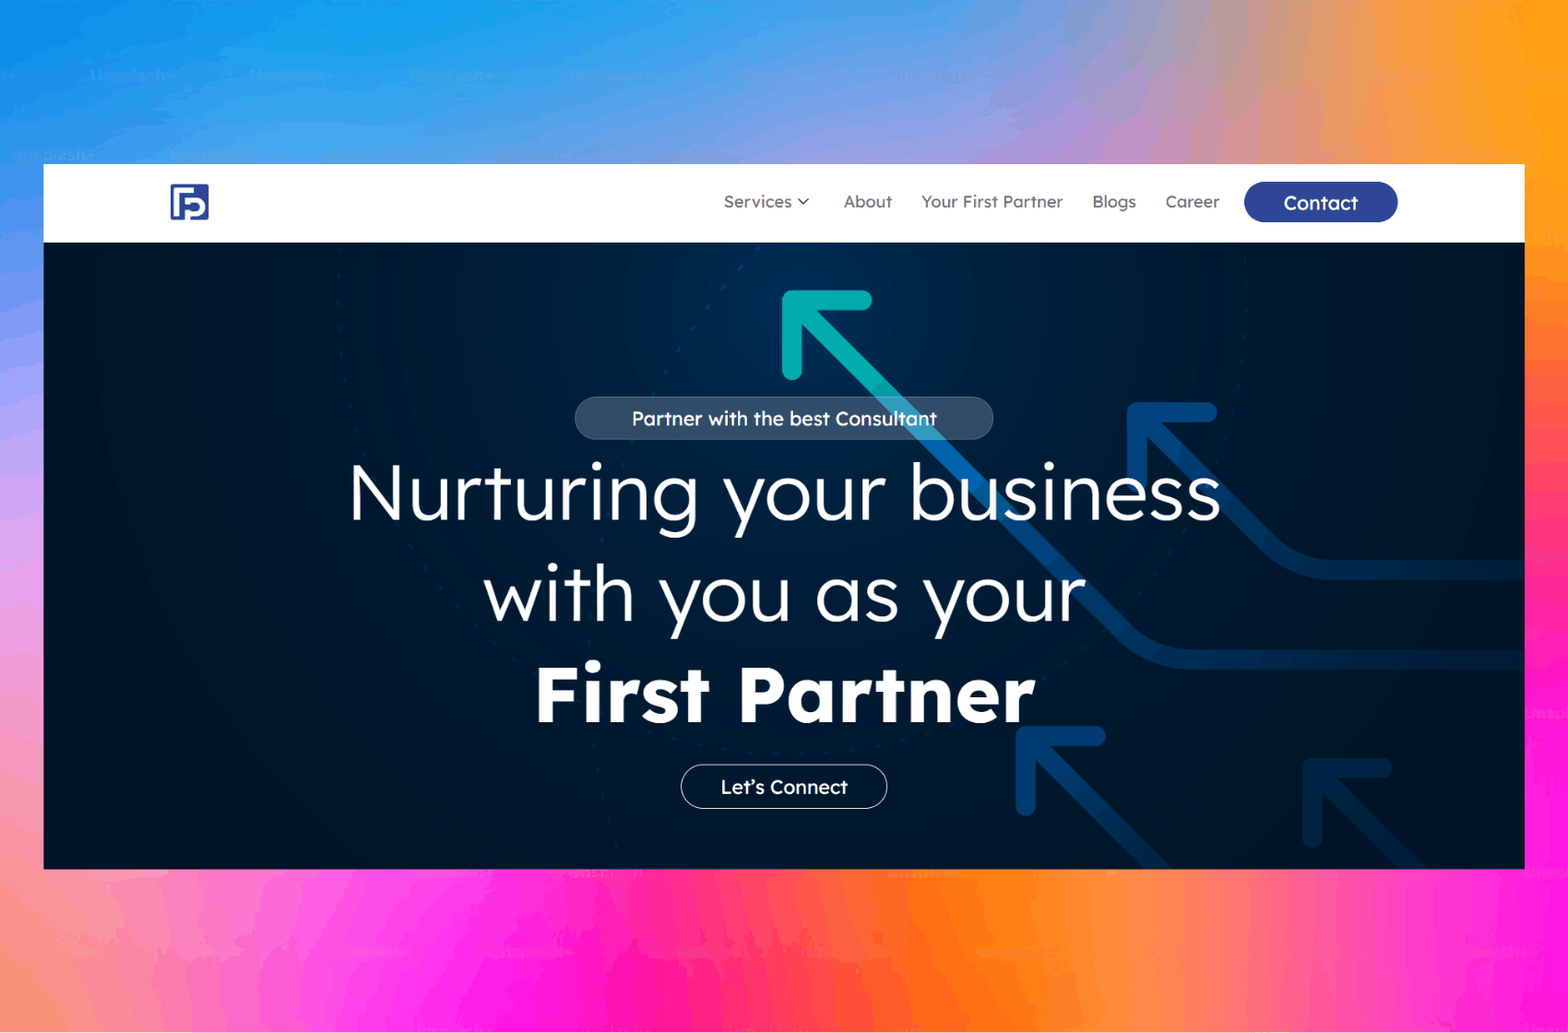
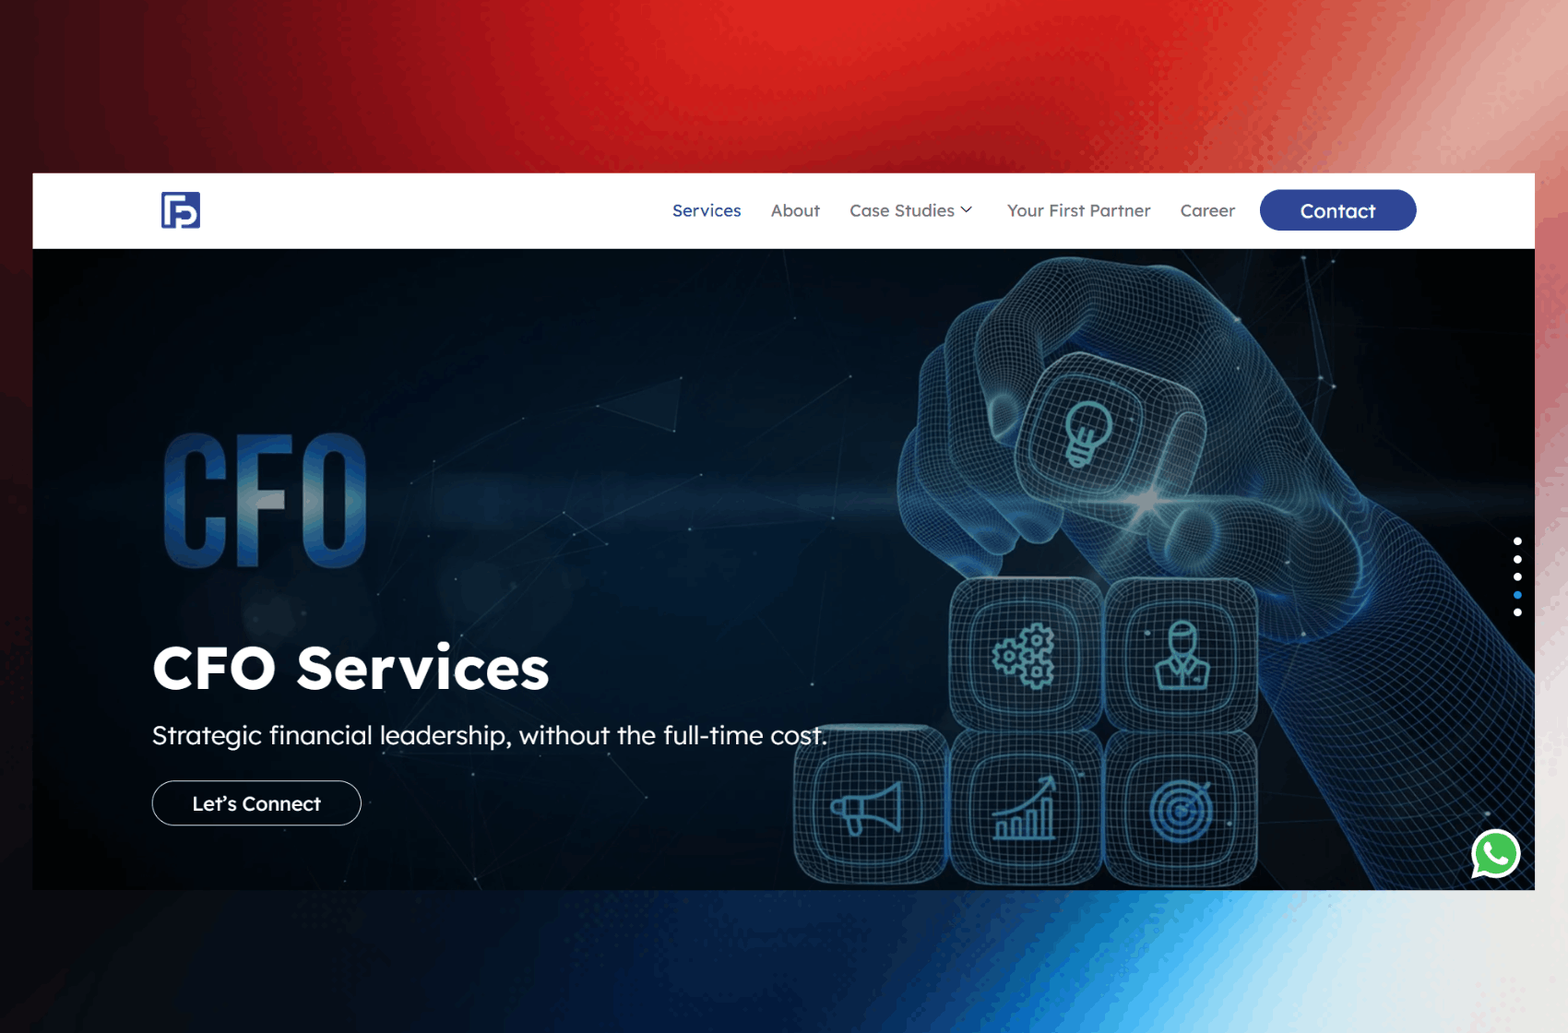
added wp projects

diff --git a/src/components/WordPressProjects.tsx b/src/components/WordPressProjects.tsx
@@ -12,26 +12,32 @@ import housefull from '../assets/images/housefull.png';
 import accelence from '../assets/images/accelence.png';
 import urbannext from '../assets/images/urbannext.png';
 import stories from '../assets/images/stories.png';
-// import grabaggs from '../assets/images/grabaggs.png';
+import pamco from '../assets/images/pamco.png';
 import elite from '../assets/images/elite.png';
 import cutabove from '../assets/images/cutabove.png';
 import saaksham from '../assets/images/saaksham.png';
 import greenly from '../assets/images/greenly.png';
 import trumbul from '../assets/images/trumbul.png';
-import tinkesh from '../assets/images/tinkesh.png';
+import glasplex from '../assets/images/tinkesh.png';
 import genzephyr from '../assets/images/genzephyr.png';
-import ebc from '../assets/images/ebc.png';
+import turnkey from '../assets/images/turnkey.png';
+import supplementfarm from '../assets/images/supplementfarm.png';
 import soil from '../assets/images/soil.png';
 import digi from '../assets/images/digi.png';
 import cicl from '../assets/images/cicl.png';
 import decrayze from '../assets/images/decrayze.png';
+import luxuria from '../assets/images/luxuria.png';
 import vavo from '../assets/images/vavo.png';
 import travelinfoline from '../assets/images/5-min.png';
+import amrit from '../assets/images/amrit.png';
+import sweetroars from '../assets/images/sweetroars.png';
 import stelliam from '../assets/images/stelliam.png';
 import podcrafter from '../assets/images/podcrafter.png';
 import marudeva from '../assets/images/marudeva.png';
 import fp from '../assets/images/fp.png';
 import cf from '../assets/images/cf.png';
+import parimisha from '../assets/images/parimisha.png';
+import monarch from '../assets/images/monarch.png';
 import melavi from '../assets/images/melavi.png';
 import logsday from '../assets/images/logsday.png';
 import ciclevent from '../assets/images/ciclevent.png';
@@ -39,6 +45,9 @@ import arken from '../assets/images/arken.png';
 import cheerup from '../assets/images/cheerup.png';
 import ora from '../assets/images/ora.png';
 import citycool from '../assets/images/citycool.png';
+import ultucup from '../assets/images/ultucup.png';
+import remodelingusa from '../assets/images/remodelingusa.png';
+import goglobe from '../assets/images/goglobe.png';
 import '../assets/styles/Project.scss';
 
 export default function WordPressProjects() {
@@ -53,19 +62,19 @@ export default function WordPressProjects() {
                <h2><a href="https://storiesunwired.com" rel="noreferrer" target="_blank">Stories Unwired - Figma to Wordpress</a></h2>
                 <p>Stories Unwired – A clean, responsive marketing agency website developed with Figma to WordPress for providing services and growth of businesses.</p>
             </div>
-            {/* <div className="project">
-                <a href="https://grabaggs.com" rel="noreferrer" target="_blank">
-                <img src={grabaggs} className="zoom" alt="thumbnail" width="100%"/>
-                </a>
-               <h2><a href="https://grabaggs.com" rel="noreferrer" target="_blank">Grabaggs - E-commerce Store</a></h2>
-                <p>A clean, responsive WooCommerce store showcasing trendy backpacks with seamless GST-enabled checkout.</p>
-            </div> */}
             <div className="project">
-                <a href="https://dracyze.com" rel="noreferrer" target="_blank">
-                <img src={decrayze} className="zoom" alt="thumbnail" width="100%"/>
+                <a href="https://firstpartnerconsulting.com/" rel="noreferrer" target="_blank">
+                <img src={fp} className="zoom" alt="thumbnail" width="100%"/>
                 </a>
-               <h2><a href="https://dracyze.com" rel="noreferrer" target="_blank">Dracyze - E-commerce Store</a></h2>
-                <p>A clean, responsive, premium look WooCommerce store showcasing trendy clothing collections with seamless fast and smooth checkout system.</p>
+               <h2><a href="https://firstpartnerconsulting.com/" rel="noreferrer" target="_blank">First Partner - Investment and Growth Business</a></h2>
+                <p>A stylish modern Figma to WordPress 18-20 pages site with smooth transitions and responsive design.</p>
+            </div>
+            <div className="project">
+                <a href="https://uttamsfurniture.in" rel="noreferrer" target="_blank">
+                <img src={fp} className="zoom" alt="thumbnail" width="100%"/>
+                </a>
+               <h2><a href="https://uttamsfurniture.in/" rel="noreferrer" target="_blank">Uttam's Furniture - Furniture and Interior Designs</a></h2>
+                <p>A stylish modern WordPress website with 8-10 pages, featuring smooth transitions and responsive design.</p>
             </div>
             <div className="project">
                 <a href="https://www.cutabove.co.in" rel="noreferrer" target="_blank">
@@ -75,11 +84,60 @@ export default function WordPressProjects() {
                 <p>A modern, visually refined Wix website developed from Figma layouts to present high-end kitchen and living solutions effectively.</p>
             </div>
             <div className="project">
-                <a href="https://podcrafter.techaura.in" rel="noreferrer" target="_blank">
-                <img src={podcrafter} className="zoom" alt="thumbnail" width="100%"/>
+                <a href="https://turnkeypropertyinspectors.com" rel="noreferrer" target="_blank">
+                <img src={turnkey} className="zoom" alt="thumbnail" width="100%"/>
                 </a>
-               <h2><a href="https://podcrafter.techaura.in" rel="noreferrer" target="_blank">Podcrafter Studio - Podcast Platform</a></h2>
-                <p>A modern, visually refined WordPress website for a podcast platform agency with seamless UI effects and user-friendly interface.</p>
+               <h2><a href="https://turnkeypropertyinspectors.com" rel="noreferrer" target="_blank">Turn Key Property Inspectors – Professional Home Inspection Services</a></h2>
+                <p>Developed a modern, responsive website for a certified home inspection company, showcasing residential inspection services, service areas, company credentials, and an intuitive user experience for home buyers and property owners.</p>
+            </div>
+            {/* <div className="project">
+                <a href="https://glasplexplasti.wpenginepowered.com" rel="noreferrer" target="_blank">
+                <img src={glasplex} className="zoom" alt="thumbnail" width="100%"/>
+                </a>
+               <h2><a href="https://glasplexplasti.wpenginepowered.com" rel="noreferrer" target="_blank">Glasplex Plastics – Industrial Plastic Sheet Supplier & Custom Fabrication</a></h2>
+                <p>Designed and developed a professional business website for an industrial plastic sheet supplier, featuring product categories, custom fabrication solutions, responsive design, and optimized performance.</p>
+            </div> */}
+            <div className="project">
+                <a href="https://pamco.ca" rel="noreferrer" target="_blank">
+                <img src={pamco} className="zoom" alt="thumbnail" width="100%"/>
+                </a>
+               <h2><a href="https://pamco.ca" rel="noreferrer" target="_blank">Pamco – Sexual & Reproductive Health Products</a></h2>
+                <p>Developed a clean, responsive website for a healthcare brand, showcasing sexual and reproductive health products with an accessible, user-friendly design and optimized browsing experience.</p>
+            </div>
+            <div className="project">
+                <a href="https://remodelingusa.wpenginepowered.com" rel="noreferrer" target="_blank">
+                <img src={remodelingusa} className="zoom" alt="thumbnail" width="100%"/>
+                </a>
+               <h2><a href="https://remodelingusa.wpenginepowered.com" rel="noreferrer" target="_blank">Remodeling USA – Home Remodeling & Renovation Services</a></h2>
+                <p>Developed a modern, responsive website for a home remodeling company, showcasing renovation services, design expertise, and value-driven home improvement solutions with a seamless and engaging user experience.</p>
+            </div>
+            <div className="project">
+                <a href="https://monarchtexascleaning.com" rel="noreferrer" target="_blank">
+                <img src={monarch} className="zoom" alt="thumbnail" width="100%"/>
+                </a>
+               <h2><a href="https://monarchtexascleaning.com" rel="noreferrer" target="_blank">Monarch Texas Cleaning Services – Residential & Commercial Cleaning</a></h2>
+                <p>Developed a clean, responsive website for a professional cleaning company, showcasing residential and commercial cleaning services, service areas, and an easy-to-navigate user experience for customers seeking reliable cleaning solutions.</p>
+            </div>
+                    <div className="project">
+                <a href="https://dracyze.com" rel="noreferrer" target="_blank">
+                <img src={decrayze} className="zoom" alt="thumbnail" width="100%"/>
+                </a>
+               <h2><a href="https://dracyze.com" rel="noreferrer" target="_blank">Dracyze - E-commerce Store</a></h2>
+                <p>A clean, responsive, premium look WooCommerce store showcasing trendy clothing collections with seamless fast and smooth checkout system.</p>
+            </div>
+             <div className="project">
+                <a href="https://marudeva.com" rel="noreferrer" target="_blank">
+                <img src={marudeva} className="zoom" alt="thumbnail" width="100%"/>
+                </a>
+               <h2><a href="https://marudeva.com" rel="noreferrer" target="_blank">Marudeva - E-commerce Store</a></h2>
+                <p>A modern, visually refined website developed from different design references layouts to present high-end e-commerce products effectively.</p>
+            </div>
+                    <div className="project">
+                <a href="https://amritresidency.in" rel="noreferrer" target="_blank">
+                <img src={amrit} className="zoom" alt="thumbnail" width="100%"/>
+                </a>
+               <h2><a href="https://amritresidency.in" rel="noreferrer" target="_blank">Amrit Residency – Premium PG & Rental Accommodation</a></h2>
+                <p>Developed a modern, responsive website for a premium PG and rental accommodation provider, showcasing comfortable living spaces, amenities, and a seamless user experience for students and working professionals.</p>
             </div>
             <div className="project">
                 <a href="https://vavodigital.com" rel="noreferrer" target="_blank">
@@ -89,11 +147,18 @@ export default function WordPressProjects() {
                 <p>A modern, visually refined website developed from different design references layouts to present high-end influencer marketing services effectively.</p>
             </div>
             <div className="project">
-                <a href="https://marudevaa.techaura.in" rel="noreferrer" target="_blank">
-                <img src={marudeva} className="zoom" alt="thumbnail" width="100%"/>
+                <a href="https://podcrafter.techaura.in" rel="noreferrer" target="_blank">
+                <img src={podcrafter} className="zoom" alt="thumbnail" width="100%"/>
                 </a>
-               <h2><a href="https://marudevaa.techaura.in" rel="noreferrer" target="_blank">Marudeva - E-commerce Store</a></h2>
-                <p>A modern, visually refined website developed from different design references layouts to present high-end e-commerce products effectively.</p>
+               <h2><a href="https://podcrafter.techaura.in" rel="noreferrer" target="_blank">Podcrafter Studio - Podcast Platform</a></h2>
+                <p>A modern, visually refined WordPress website for a podcast platform agency with seamless UI effects and user-friendly interface.</p>
+            </div>
+            <div className="project">
+                <a href="https://supplementfarm.in" rel="noreferrer" target="_blank">
+                <img src={supplementfarm} className="zoom" alt="thumbnail" width="100%"/>
+                </a>
+               <h2><a href="https://supplementfarm.in" rel="noreferrer" target="_blank">Supplement Farm – Fitness & Wellness Supplements</a></h2>
+                <p>Developed a modern, responsive eCommerce website for a fitness and wellness brand, showcasing authentic nutritional supplements with an intuitive shopping experience and optimized product browsing.</p>
             </div>
             <div className="project">
                 <a href="https://stelliamholidays.com" rel="noreferrer" target="_blank">
@@ -110,13 +175,6 @@ export default function WordPressProjects() {
                 <p>A stylish WooCommerce e-commerce site with smooth dropshipping integration for effortless product management.</p>
             </div>
             <div className="project">
-                <a href="https://test.techaura.in/" rel="noreferrer" target="_blank">
-                <img src={fp} className="zoom" alt="thumbnail" width="100%"/>
-                </a>
-               <h2><a href="https://test.techaura.in/" rel="noreferrer" target="_blank">First Partner - Investment and Groeth Business</a></h2>
-                <p>A stylish modern Figma to WordPress 18-20 pages site with smooth transitions and responsive design.</p>
-            </div>
-            <div className="project">
                 <a href="https://urbannxtinfra.com" rel="noreferrer" target="_blank">
                 <img src={urbannext} className="zoom" alt="thumbnail" width="100%"/>
                 </a>
@@ -129,6 +187,41 @@ export default function WordPressProjects() {
                 </a>
                <h2><a href="https://8elitenutrition.com" rel="noreferrer" target="_blank">8 Elite Nutrition - E-commerce Store</a></h2>
                 <p>A premium WooCommerce store built to present the supplement brand, offering a clean, trustworthy shopping experience and featuring customized offers on purchase.</p>
+            </div>
+            <div className="project">
+                <a href="https://luxuriaautomotive.com" rel="noreferrer" target="_blank">
+                <img src={luxuria} className="zoom" alt="thumbnail" width="100%"/>
+                </a>
+               <h2><a href="https://luxuriaautomotive.com" rel="noreferrer" target="_blank">Luxuria Automotive – Luxury Car Sales, Finance & Insurance</a></h2>
+                <p>Developed a premium, responsive website for a luxury automotive company, showcasing new and pre-owned vehicle sales, financing, and insurance services with a seamless and sophisticated user experience.</p>
+            </div>
+            <div className="project">
+                <a href="https://sweetroars.com" rel="noreferrer" target="_blank">
+                <img src={sweetroars} className="zoom" alt="thumbnail" width="100%"/>
+                </a>
+               <h2><a href="https://sweetroars.com" rel="noreferrer" target="_blank">Sweet Roars – Custom Cakes & Home Bakery</a></h2>
+                <p>Developed a modern, responsive website for a home bakery, showcasing custom cakes, baked goods, and handcrafted desserts with an engaging design and seamless browsing experience.</p>
+            </div>
+            <div className="project">
+                <a href="https://parimishabearings.com" rel="noreferrer" target="_blank">
+                <img src={parimisha} className="zoom" alt="thumbnail" width="100%"/>
+                </a>
+               <h2><a href="https://parimishabearings.com" rel="noreferrer" target="_blank">Pari Misha Bearings – Industrial Bearings & Chemical Solutions</a></h2>
+                <p>Developed a professional, responsive website for an industrial supplier, showcasing premium bearing brands, industrial and construction chemical solutions, and an intuitive user experience for businesses across India.</p>
+            </div>
+            <div className="project">
+                <a href="https://ultucup.com" rel="noreferrer" target="_blank">
+                <img src={ultucup} className="zoom" alt="thumbnail" width="100%"/>
+                </a>
+               <h2><a href="https://ultucup.com" rel="noreferrer" target="_blank">UltuCup – Sustainable Reusable Cup Solutions</a></h2>
+                <p>Developed a modern, responsive website for an eco-friendly brand, showcasing sustainable reusable cups, product features, and a clean, engaging user experience focused on environmental responsibility.</p>
+            </div>
+            <div className="project">
+                <a href="https://goglobemigrations.com" rel="noreferrer" target="_blank">
+                <img src={goglobe} className="zoom" alt="thumbnail" width="100%"/>
+                </a>
+               <h2><a href="https://goglobemigrations.com" rel="noreferrer" target="_blank">Go Globe Migrations – Immigration & Visa Consultancy</a></h2>
+                <p>Developed a professional, responsive website for an immigration consultancy, showcasing student, family, skilled, and spouse visa services with a streamlined user experience for prospective clients.</p>
             </div>
             <div className="project">
                 <a href="https://arkenroofing.com" rel="noreferrer" target="_blank">
@@ -150,13 +243,6 @@ export default function WordPressProjects() {
                 </a>
                <h2><a href="https://creatingfutures.in" rel="noreferrer" target="_blank">Creating Futures - NGO</a></h2>
                 <p>A modern WordPress platform created to showcase the Creating Futures work in advancing children education and women empowerment, along with their inspiring achievements and stories.</p>
-            </div>
-            <div className="project">
-                <a href="https://tinkeshabilityfoundation.techaura.in" rel="noreferrer" target="_blank">
-                <img src={tinkesh} className="zoom" alt="thumbnail" width="100%"/>
-                </a>
-               <h2><a href="https://tinkeshabilityfoundation.techaura.in" rel="noreferrer" target="_blank">Tinkesh Ability Foundation</a></h2>
-                <p>A modern WordPress platform created to showcase the Tinkesh Ability Foundation’s work in advancing mobility and psychosocial wellness, along with their inspiring achievements and stories.</p>
             </div>
             <div className="project">
                 <a href="https://accelance.io" rel="noreferrer" target="_blank">
@@ -297,13 +383,6 @@ export default function WordPressProjects() {
                 </a>
                <h2><a href="https://housefullentertainment.com" rel="noreferrer" target="_blank">Housefull Entertainment - Landing Page</a></h2>
                 <p>Housefull Entertainment – A clean, responsive landing page developed in WordPress to showcase about Event Management and services.</p>
-            </div>
-            <div className="project">
-                <a href="https://ebc.tinkeshabilityfoundation.org" rel="noreferrer" target="_blank">
-                <img src={ebc} className="zoom" alt="thumbnail" width="100%"/>
-                </a>
-               <h2><a href="https://ebc.tinkeshabilityfoundation.org" rel="noreferrer" target="_blank">Everest Base Camp 2026 - Landing Page</a></h2>
-                <p>A captivating WordPress landing page built to promote the Tinkesh Ability Foundation’s Everest Base Camp 2026 expedition, inspiring visitors with stories, event details, and opportunities to support or join the adventure.</p>
             </div>
             <div className="project">
                 <a href="https://yipeezy.net" rel="noreferrer" target="_blank">

diff --git a/src/components/Timeline.tsx b/src/components/Timeline.tsx
@@ -17,6 +17,25 @@ function Timeline() {
             className="vertical-timeline-element--work"
             contentStyle={{ background: 'white', color: 'rgb(39, 40, 34)' }}
             contentArrowStyle={{ borderRight: '7px solid  white' }}
+            date="MARCH 2025  - PRESENT"
+            iconStyle={{ background: '#5000ca', color: 'rgb(39, 40, 34)' }}
+            icon={<FontAwesomeIcon icon={faBriefcase} />}
+          >
+            <h3 className="vertical-timeline-element-title">Freelance Full Stack Developer</h3>
+            <p>
+            ➜ Developed and deployed custom full-stack web applications for <b>startups and businesses</b>.
+            <br />
+            ➜ <b>Collaborated directly with clients</b> to gather requirements and deliver scalable solutions.
+            <br />
+            ➜  Integrated REST APIs, payment gateways, authentication, and third-party services.
+            <br />
+            ➜ Optimized website performance, responsiveness, SEO, and Core Web Vitals.
+            </p>
+          </VerticalTimelineElement>
+          <VerticalTimelineElement
+            className="vertical-timeline-element--work"
+            contentStyle={{ background: 'white', color: 'rgb(39, 40, 34)' }}
+            contentArrowStyle={{ borderRight: '7px solid  white' }}
             date="JUNE 2024 - FEB 2025"
             iconStyle={{ background: '#5000ca', color: 'rgb(39, 40, 34)' }}
             icon={<FontAwesomeIcon icon={faBriefcase} />}
@@ -24,15 +43,15 @@ function Timeline() {
             <h3 className="vertical-timeline-element-title">Full Stack Developer</h3>
             <h4 className="vertical-timeline-element-subtitle comName">WsCube Tech</h4>
             <p>
-            <ArrowRight className="pointers" /> Primary responsibilities included <b>design, research, development, and
+            ➜ Primary responsibilities included <b>design, research, development, and
             maintenance of the websites</b>.
             <br />
-            <ArrowRight className="pointers" /> <b>Developed and maintained user interfaces</b> for web applications using modern
+            ➜ <b>Developed and maintained user interfaces</b> for web applications using modern
             frameworks.
             <br />
-            <ArrowRight className="pointers" />  <b>Communicating with clients regarding project</b> requirements and specifications
+            ➜  <b>Communicating with clients regarding project</b> requirements and specifications
             <br />
-            <ArrowRight className="pointers" /> Create <b>APIs for mobile & web apps</b>.
+            ➜ Create <b>APIs for mobile & web apps</b>.
             </p>
           </VerticalTimelineElement>
           <VerticalTimelineElement
@@ -44,15 +63,15 @@ function Timeline() {
             <h3 className="vertical-timeline-element-title">Frontend Developer</h3>
             <h4 className="vertical-timeline-element-subtitle comName"> Iway Digital</h4>
             <p>
-            <ArrowRight className="pointers" /> Primary responsibilities included <b>design, research, development, and
+            ➜ Primary responsibilities included <b>design, research, development, and
             maintenance of the websites</b>.
             <br />
-            <ArrowRight className="pointers" /> <b>Communicating with clients</b> regarding project requirements and
+            ➜ <b>Communicating with clients</b> regarding project requirements and
             specifications.
             <br />
-            <ArrowRight className="pointers" /> Implemented <b>responsive designs</b> and ensured <b>cross-browser compatibility</b>.
+            ➜ Implemented <b>responsive designs</b> and ensured <b>cross-browser compatibility</b>.
             <br />
-            <ArrowRight className="pointers" /><b> Wrote clean, reusable, and maintainable code</b> while adhering to best practices.
+            ➜ <b> Wrote clean, reusable, and maintainable code</b> while adhering to best practices.
             </p>
           </VerticalTimelineElement>
         

diff --git a/public/index.html b/public/index.html
@@ -25,7 +25,7 @@
       Learn how to configure a non-root public URL by running `npm run build`.
     -->
       <!-- Google tag (gtag.js) -->
-<script async src="https://pagead2.googlesyndication.com/pagead/js/adsbygoogle.js?client=ca-pub-3009251844242367"
+<script async src="https://pagead2.googlesyndication.com/pa gead/js/adsbygoogle.js?client=ca-pub-3009251844242367"
      crossorigin="anonymous"></script>
     <title>Roshan Chaurasia</title>
   </head>
